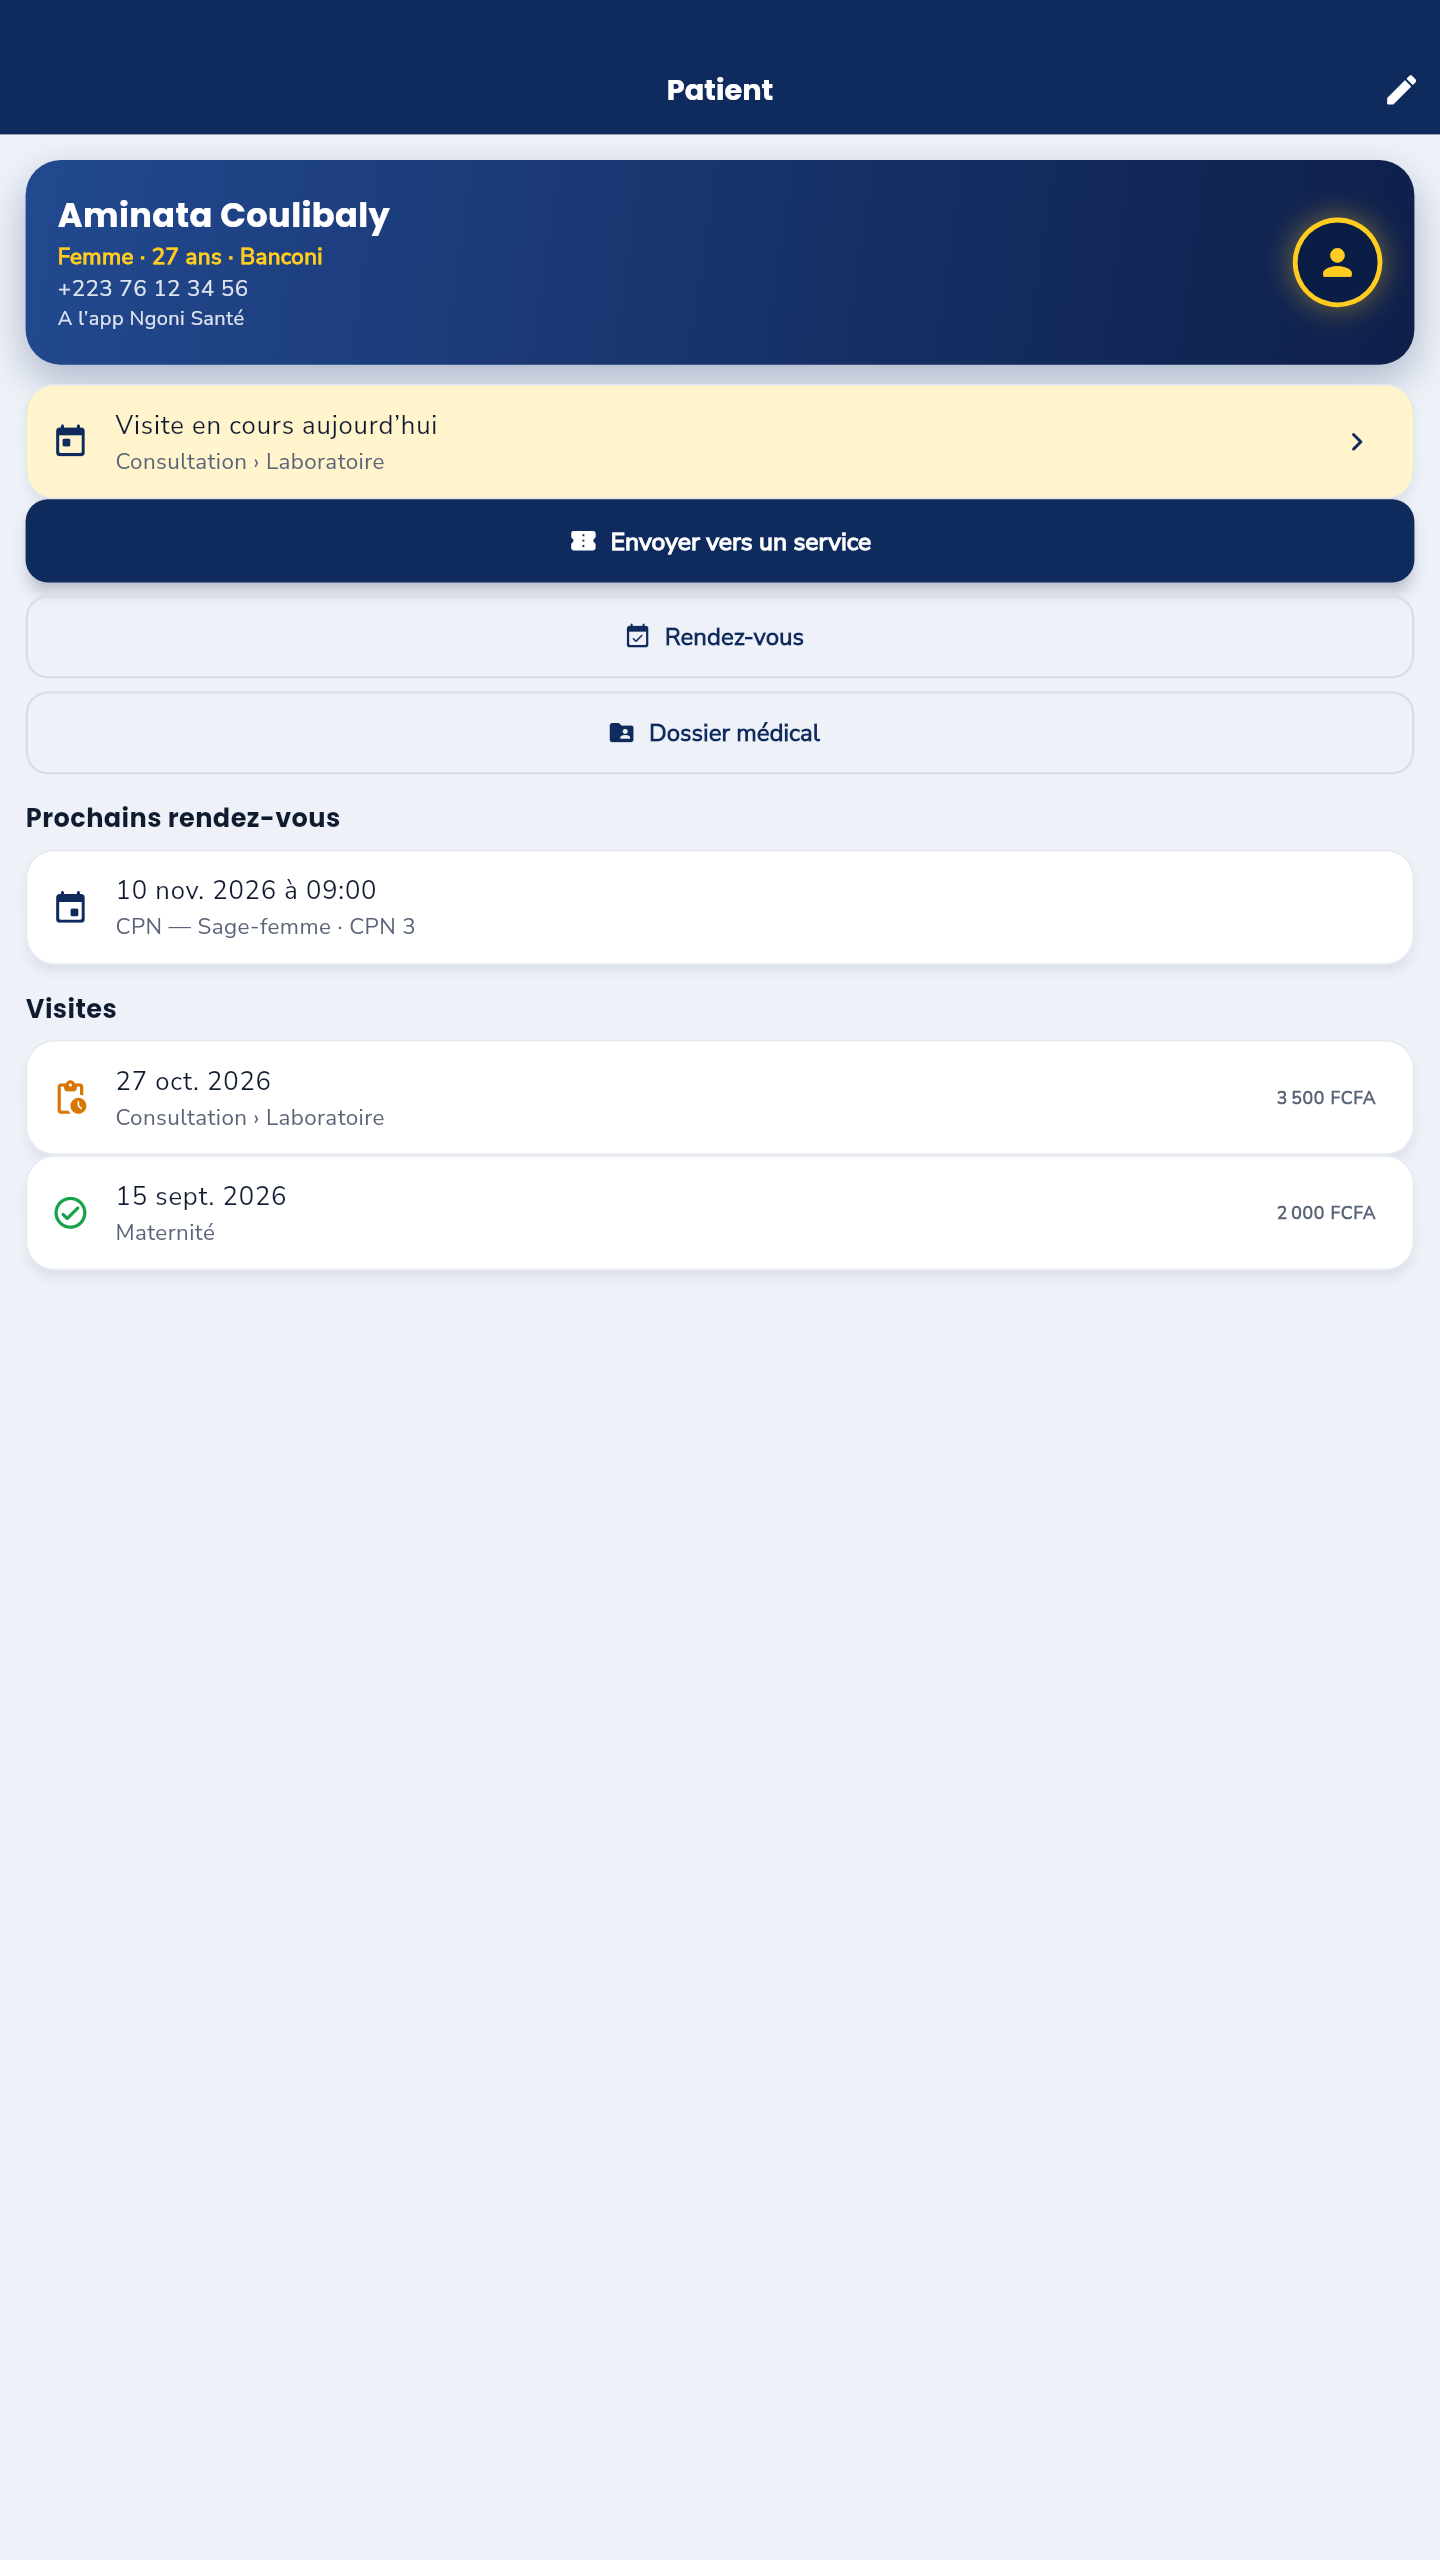
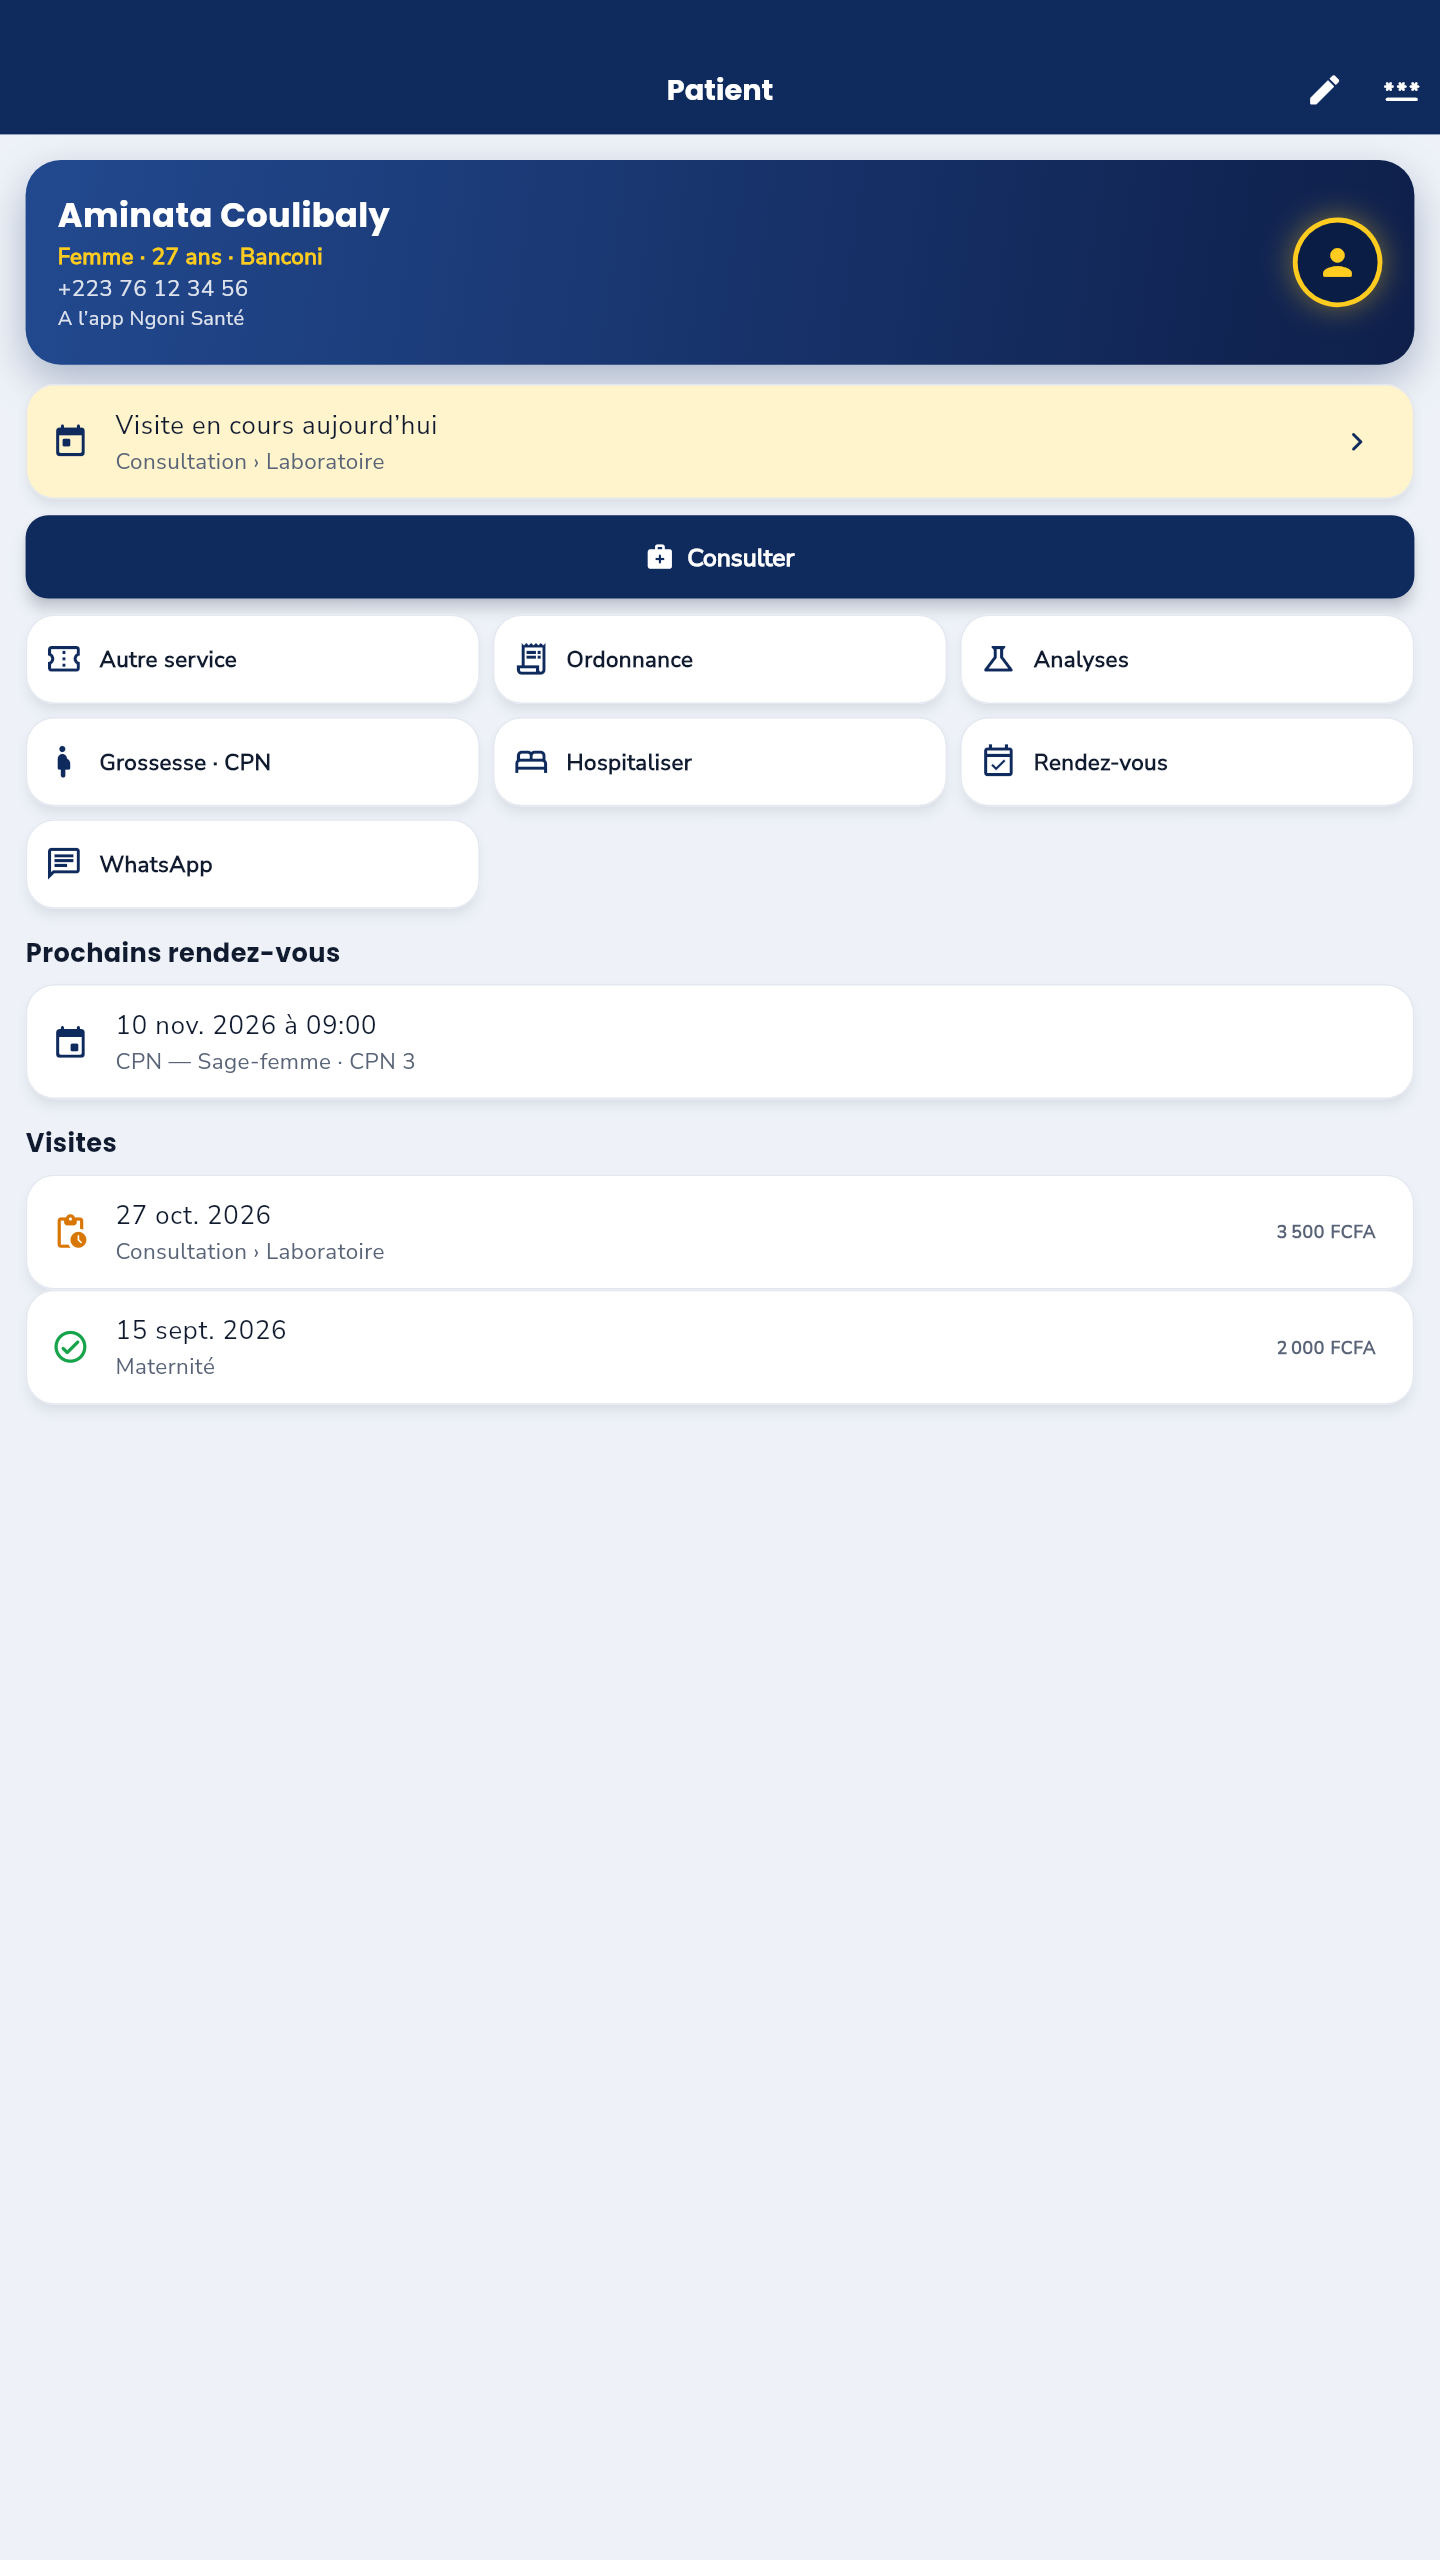
Fiche patient : les actions selon qui on est et s'il est là aujourd'hui (Consulter, ordonnance, analyses, grossesse, carnet, hospitaliser, rendez-vous, WhatsApp) ; captures Play à jour

Changed region(s): [[0.0, 0.1875, 1.0, 0.5312]]

diff --git a/lib/screens/patients/patient_screen.dart b/lib/screens/patients/patient_screen.dart
@@ -8,6 +8,7 @@ import 'package:provider/provider.dart';
 
 import '../../caisse/caisse_models.dart';
 import '../../common/utils/kcolors.dart';
+import '../../common/whatsapp.dart';
 import '../../common/widgets/carte_marque.dart';
 import '../../controllers/auth_controller.dart';
 import '../../core/api/api_client.dart';
@@ -17,6 +18,11 @@ import '../../patients/patients_service.dart';
 import '../caisse/visite_screen.dart';
 import '../dossier/dossier_screen.dart';
 import '../dossier/dossier_widgets.dart';
+import '../hospitalisation/sejour_screen.dart';
+import '../labo/demander_analyses_screen.dart';
+import '../maternite/carnet_screen.dart';
+import '../maternite/grossesse_screen.dart';
+import '../pharmacie/ordonnance_screens.dart';
 import '../../rdv/rdv_service.dart';
 import '../file/donner_ticket_sheet.dart';
 import '../rdv/nouveau_rdv_sheet.dart';
@@ -167,6 +173,41 @@ Future<Map<String, dynamic>?> editerPatient(
       ),
     ],
   );
+}
+
+/// Une action de la fiche : icône et mot, un toucher.
+class _Action extends StatelessWidget {
+  const _Action(this.icone, this.libelle, this.onTap);
+
+  final IconData icone;
+  final String libelle;
+  final VoidCallback onTap;
+
+  @override
+  Widget build(BuildContext context) {
+    return Card(
+      margin: EdgeInsets.zero,
+      child: InkWell(
+        borderRadius: BorderRadius.circular(16),
+        onTap: onTap,
+        child: Padding(
+          padding: const EdgeInsets.symmetric(horizontal: 12, vertical: 16),
+          child: Row(
+            children: [
+              Icon(icone, color: Kolors.kPrimary),
+              const SizedBox(width: 10),
+              Expanded(
+                child: Text(
+                  libelle,
+                  style: const TextStyle(fontWeight: FontWeight.w700),
+                ),
+              ),
+            ],
+          ),
+        ),
+      ),
+    );
+  }
 }
 
 /// « Déjà venu ? » : les patients qui ressemblent à ce qu'on tape (nom, ou
@@ -404,6 +445,115 @@ class _PatientScreenState extends State<PatientScreen> {
     await _charger();
   }
 
+  /// Ce qu'on fait pour ce patient, selon qui on est et s'il est là
+  /// aujourd'hui : l'accueil l'envoie, le soignant le soigne, et tout le
+  /// monde suit (rendez-vous, carnet, message).
+  List<Widget> _actions(AuthController auth, Patient p, VisitePatient? duJour) {
+    final envoyer = auth.aModule('file') && auth.peut('file.emettre');
+    final soigne = duJour != null && auth.peut('consultation.faire');
+    final visite = duJour?.uuid;
+    final dossier = DossierPatient(
+      uuid: p.uuid,
+      nom: p.nom,
+      aUnCompte: p.aUnCompte,
+      consultations: const [],
+    );
+    DossierScreen ecranDossier() =>
+        DossierScreen(visiteUuid: visite, dossier: dossier);
+
+    final tuiles = <_Action>[
+      if (envoyer && duJour != null)
+        _Action(
+          Icons.confirmation_number_outlined,
+          'Autre service',
+          _envoyer,
+        ),
+      if (visite != null && auth.peut('ordonnance.prescrire'))
+        _Action(
+          Icons.receipt_long_outlined,
+          'Ordonnance',
+          () => _ouvrir(PrescrireScreen(visiteUuid: visite, patient: p.nom)),
+        ),
+      if (soigne && auth.aModule('labo'))
+        _Action(
+          Icons.science_outlined,
+          'Analyses',
+          () => _ouvrir(
+            DemanderAnalysesScreen(visiteUuid: visite!, patient: p.nom),
+          ),
+        ),
+      if (visite != null &&
+          p.sexe != 'M' &&
+          auth.aModule('maternite') &&
+          auth.peut('maternite.suivre'))
+        _Action(
+          Icons.pregnant_woman_rounded,
+          'Grossesse · CPN',
+          () => ouvrirGrossesse(context, visite),
+        ),
+      if ((p.age ?? 99) < 6 &&
+          (auth.peut('maternite.suivre') || auth.peut('dossier.ecrire')))
+        _Action(
+          Icons.vaccines_outlined,
+          'Carnet de vaccination',
+          () => _ouvrir(CarnetScreen(dossierUuid: p.uuid)),
+        ),
+      if (visite != null &&
+          auth.aModule('hospitalisation') &&
+          auth.peut('hospitalisation.gerer'))
+        _Action(
+          Icons.bed_outlined,
+          'Hospitaliser',
+          () => hospitaliser(context, visite),
+        ),
+      if (auth.aModule('rdv') && auth.peut('rdv.gerer'))
+        _Action(Icons.event_available_outlined, 'Rendez-vous', _rendezVous),
+      if (auth.peut('dossier.lire') && !soigne)
+        _Action(
+          Icons.folder_shared_outlined,
+          'Dossier médical',
+          () => _ouvrir(ecranDossier()),
+        ),
+      if (p.telephone != null)
+        _Action(
+          Icons.chat_outlined,
+          'WhatsApp',
+          () => envoyerWhatsApp(context, p.telephone!, 'Bonjour ${p.nom}, '),
+        ),
+    ];
+
+    return [
+      if (duJour != null) const SizedBox(height: 10),
+      // L'action du moment, en grand.
+      if (soigne)
+        ElevatedButton.icon(
+          onPressed: () => _ouvrir(ecranDossier()),
+          icon: const Icon(Icons.medical_services_rounded),
+          label: const Text('Consulter'),
+        )
+      else if (envoyer && duJour == null)
+        ElevatedButton.icon(
+          onPressed: _envoyer,
+          icon: const Icon(Icons.confirmation_number_rounded),
+          label: const Text('Envoyer en consultation'),
+        ),
+      const SizedBox(height: 10),
+      LayoutBuilder(
+        builder: (context, c) {
+          final colonnes = c.maxWidth >= 900 ? 4 : (c.maxWidth >= 560 ? 3 : 2);
+          final largeur = (c.maxWidth - 8 * (colonnes - 1)) / colonnes;
+          return Wrap(
+            spacing: 8,
+            runSpacing: 8,
+            children: [
+              for (final t in tuiles) SizedBox(width: largeur, child: t),
+            ],
+          );
+        },
+      ),
+    ];
+  }
+
   @override
   Widget build(BuildContext context) {
     final auth = context.watch<AuthController>();
@@ -493,43 +643,7 @@ class _PatientScreenState extends State<PatientScreen> {
                   onTap: () => _ouvrir(VisiteScreen(uuid: duJour.uuid)),
                 ),
               ),
-            Wrap(
-              spacing: 8,
-              runSpacing: 8,
-              children: [
-                if (auth.aModule('file') && auth.peut('file.emettre'))
-                  ElevatedButton.icon(
-                    onPressed: _envoyer,
-                    icon: const Icon(Icons.confirmation_number_rounded),
-                    label: Text(
-                      duJour == null
-                          ? 'Envoyer en consultation'
-                          : 'Envoyer vers un service',
-                    ),
-                  ),
-                if (auth.aModule('rdv') && auth.peut('rdv.gerer'))
-                  OutlinedButton.icon(
-                    onPressed: _rendezVous,
-                    icon: const Icon(Icons.event_available_rounded),
-                    label: const Text('Rendez-vous'),
-                  ),
-                if (auth.peut('dossier.lire'))
-                  OutlinedButton.icon(
-                    onPressed: () => _ouvrir(
-                      DossierScreen(
-                        dossier: DossierPatient(
-                          uuid: p.uuid,
-                          nom: p.nom,
-                          aUnCompte: p.aUnCompte,
-                          consultations: const [],
-                        ),
-                      ),
-                    ),
-                    icon: const Icon(Icons.folder_shared_rounded),
-                    label: const Text('Dossier médical'),
-                  ),
-              ],
-            ),
+            ..._actions(auth, p, duJour),
             if (p.rendezVous.isNotEmpty) ...[
               const SizedBox(height: 16),
               Text(
